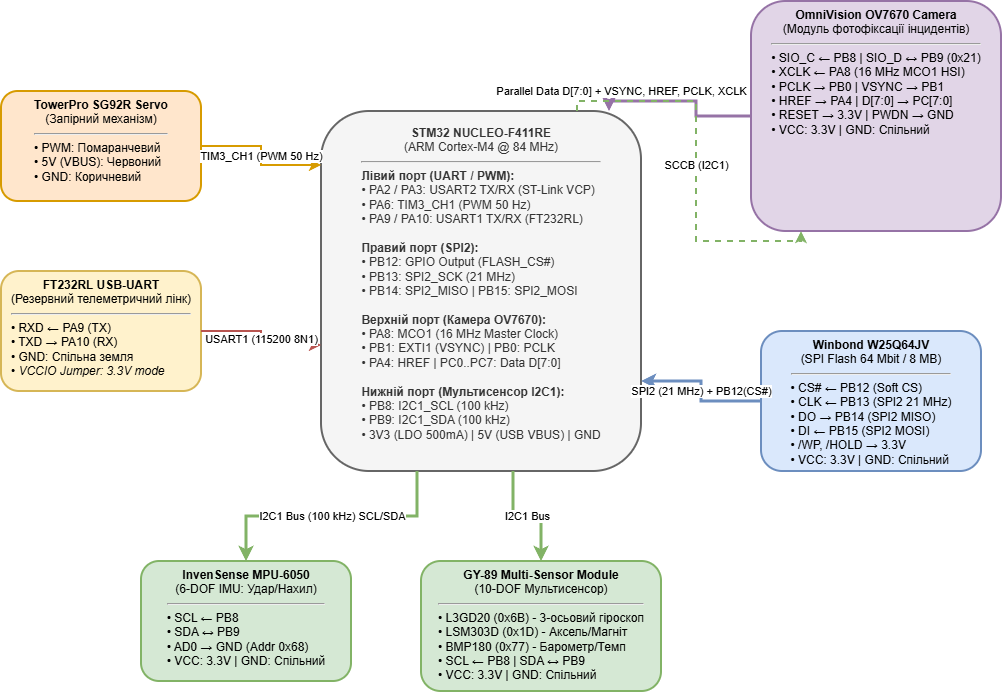
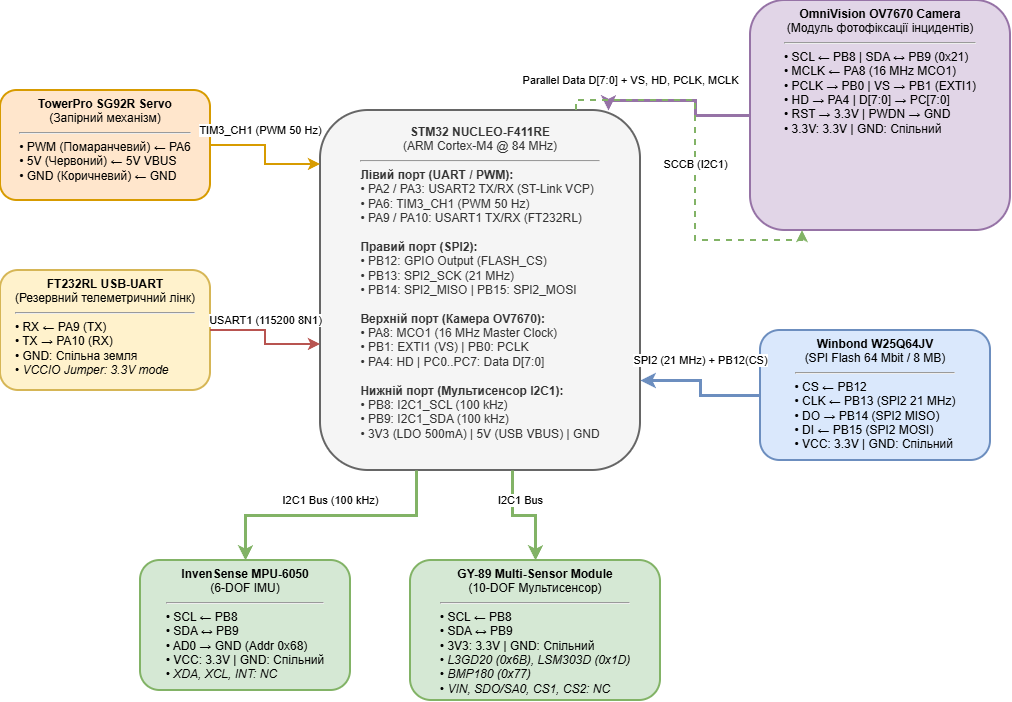
diagram and pinout fixed

Changed region(s): [[0.0, 0.0, 1.0, 1.0]]

diff --git a/docs/pinout.md b/docs/pinout.md
@@ -5,7 +5,9 @@
 
 ---
 
-## 1. Зведена таблиця підключення периферії (Master Pinout Table)
+## 1. Апаратне підключення стенда
+
+### 1.1. Зведена таблиця підключення до мікроконтролера (Master Pinout Table)
 
 | Пін МК | Номер AF | Периферійний блок і сигнал | Роз'єм Nucleo (Morpho / Arduino) | Пристрій / Модуль | Пін пристрою | Рівень напруги (5V tolerant) | Наявність Pull-up / Pull-down | Обґрунтування вибору та джерело в документації |
 | :--- | :--- | :--- | :--- | :--- | :--- | :--- | :--- | :--- |
@@ -13,18 +15,18 @@
 | **PA3** | AF7 | USART2_RX | CN10-37 / D0 | ST-LINK VCP | TXD | 3.3 В (FT) | Немає (Float) | Апаратне підключення до ST-Link VCP через перемичку SB14 *(UM1724, с. 26; DS10314, Table 8; RM0383, Table 1, с. 39)* |
 | **PA5** | - | GPIO_Output | CN10-11 / D13 | Nucleo Onboard | Green LED (LD2) | 3.3 В (FT) | Немає | Бортовий світлодіод індикації статусів системи (Active HIGH) *(UM1724, Section 7.6, с. 24; RM0383, Section 8.3.10, с. 154)* |
 | **PA6** | AF2 | TIM3_CH1 | CN10-13 / D12 | SG92R Servo | PWM (Orange) | 3.3 В логіка (FT) | Внутрішній Pull-down | Апаратний ШІМ 50 Гц для керування кутом засува блокування *(DS10314, Table 8, с. 46; RM0383, Section 13.3.9, с. 333)* |
-| **PA8** | AF0 | MCO1 (XCLK) | CN10-23 / D7 | OV7670 Camera | XCLK | 3.3 В (FT) | Немає (Push-Pull, High Speed) | Генерація опорного такту 16 МГц безпосередньо з HSI без завантаження CPU *(DS10314, Table 8, с. 46; RM0383, Section 6.2.10, с. 100)* |
-| **PA4** | - | GPIO_Input | CN7-32 / A2 | OV7670 Camera | HREF | 3.3 В (STD) | Внутрішній Pull-down | Строб активного рядка відеокадру *(OV7670 DS, Table 1, с. 4; RM0383, Section 8.3.9, с. 153)* |
+| **PA8** | AF0 | MCO1 (MCLK) | CN10-23 / D7 | OV7670 Camera | MCLK | 3.3 В (FT) | Немає (Push-Pull, High Speed) | Генерація опорного такту 16 МГц безпосередньо з HSI без завантаження CPU *(DS10314, Table 8, с. 46; RM0383, Section 6.2.10, с. 100)* |
+| **PA4** | - | GPIO_Input | CN7-32 / A2 | OV7670 Camera | HD | 3.3 В (STD) | Внутрішній Pull-down | Строб активного рядка відеокадру HREF *(OV7670 DS, Table 1, с. 4; RM0383, Section 8.3.9, с. 153)* |
 | **PB0** | - | GPIO_Input | CN7-34 / A3 | OV7670 Camera | PCLK | 3.3 В (FT) | Внутрішній Pull-down | Піксельний строб тактування паралельних даних *(OV7670 DS, Table 1, с. 4; RM0383, Section 8.3.9, с. 153)* |
-| **PB1** | - | GPIO_Input (EXTI1) | CN10-24 | OV7670 Camera | VSYNC | 3.3 В (FT) | Внутрішній Pull-down | Кадровий синхроімпульс для детекції початку кадру по перериванню EXTI1 *(OV7670 DS, Table 1, с. 4; RM0383, Section 10.2.5, с. 208)* |
-| **PB8** | AF4 | I2C1_SCL | CN10-3 / D15 | MPU-6050, GY-89, OV7670 | SCL / SIO_C | 3.3 В (FT) | Зовнішній 4.7 кОм на модулях + Open-Drain | Спільна тактова лінія I2C1 (100 кГц) для мультисенсорної шини *(UM1724, с. 44; DS10314, Table 8, с. 47; RM0383, Section 18.3, с. 471)* |
-| **PB9** | AF4 | I2C1_SDA | CN10-5 / D14 | MPU-6050, GY-89, OV7670 | SDA / SIO_D | 3.3 В (FT) | Зовнішній 4.7 кОм на модулях + Open-Drain | Спільна лінія даних I2C1 та конфігурації камери SCCB *(UM1724, с. 44; DS10314, Table 8, с. 47; RM0383, Section 18.3, с. 471)* |
-| **PB12** | - | GPIO_Output | CN10-16 | W25Q64JV Flash | CS# | 3.3 В (FT) | Програмний Pull-up | Програмне керування вибором кристала SPI Flash *(W25Q64JV DS, Section 4.1, с. 9; RM0383, Section 8.3.10, с. 154)* |
+| **PB1** | - | GPIO_Input (EXTI1) | CN10-24 | OV7670 Camera | VS | 3.3 В (FT) | Внутрішній Pull-down | Кадровий синхроімпульс VSYNC для детекції початку кадру по EXTI1 *(OV7670 DS, Table 1, с. 4; RM0383, Section 10.2.5, с. 208)* |
+| **PB8** | AF4 | I2C1_SCL | CN10-3 / D15 | MPU-6050, GY-89, OV7670 | SCL | 3.3 В (FT) | Зовнішній 4.7 кОм на модулях + Open-Drain | Спільна тактова лінія I2C1 (100 кГц) для мультисенсорної шини та SCCB *(UM1724, с. 44; DS10314, Table 8, с. 47; RM0383, Section 18.3, с. 471)* |
+| **PB9** | AF4 | I2C1_SDA | CN10-5 / D14 | MPU-6050, GY-89, OV7670 | SDA | 3.3 В (FT) | Зовнішній 4.7 кОм на модулях + Open-Drain | Спільна лінія даних I2C1 та конфігурації камери SCCB *(UM1724, с. 44; DS10314, Table 8, с. 47; RM0383, Section 18.3, с. 471)* |
+| **PB12** | - | GPIO_Output | CN10-16 | W25Q64JV Flash | CS | 3.3 В (FT) | Програмний Pull-up | Програмне керування вибором кристала SPI Flash *(W25Q64JV DS, Section 4.1, с. 9; RM0383, Section 8.3.10, с. 154)* |
 | **PB13** | AF5 | SPI2_SCK | CN10-30 | W25Q64JV Flash | CLK | 3.3 В (FT) | Немає (Push-Pull, 21 МГц) | Апаратне тактування швидкісного інтерфейсу SPI2 *(DS10314, Table 8, с. 47; W25Q64JV DS, с. 9; RM0383, Section 20.3.3, с. 564)* |
-| **PB14** | AF5 | SPI2_MISO | CN10-28 | W25Q64JV Flash | DO (IO1) | 3.3 В (FT) | Немає (Float) | Лінія читання даних із Flash-пам'яті *(DS10314, Table 8, с. 47; W25Q64JV DS, с. 9; RM0383, Section 20.3.3, с. 564)* |
-| **PB15** | AF5 | SPI2_MOSI | CN10-26 | W25Q64JV Flash | DI (IO0) | 3.3 В (FT) | Немає (Push-Pull) | Лінія відправки команд та запису сторінок *(DS10314, Table 8, с. 47; W25Q64JV DS, с. 9; RM0383, Section 20.3.3, с. 564)* |
-| **PA9** | AF7 | USART1_TX | CN10-21 / D8 | FT232RL | RXD | 3.3 В (FT) | Немає (Push-Pull) | Резервний апаратний канал швидкісного зливу дампу чорної скриньки *(DS10314, Table 8, с. 46; RM0383, Section 19.3.2, с. 507)* |
-| **PA10** | AF7 | USART1_RX | CN10-33 / D2 | FT232RL | TXD | 3.3 В (FT) | Немає (Float) | Резервний прийом команд конфігурації CLI *(DS10314, Table 8, с. 46; DS_FT232R, с. 8; RM0383, Section 19.3.3, с. 510)* |
+| **PB14** | AF5 | SPI2_MISO | CN10-28 | W25Q64JV Flash | DO | 3.3 В (FT) | Немає (Float) | Лінія читання даних із Flash-пам'яті *(DS10314, Table 8, с. 47; W25Q64JV DS, с. 9; RM0383, Section 20.3.3, с. 564)* |
+| **PB15** | AF5 | SPI2_MOSI | CN10-26 | W25Q64JV Flash | DI | 3.3 В (FT) | Немає (Push-Pull) | Лінія відправки команд та запису сторінок *(DS10314, Table 8, с. 47; W25Q64JV DS, с. 9; RM0383, Section 20.3.3, с. 564)* |
+| **PA9** | AF7 | USART1_TX | CN10-21 / D8 | FT232RL | RX | 3.3 В (FT) | Немає (Push-Pull) | Резервний апаратний канал швидкісного зливу дампу чорної скриньки *(DS10314, Table 8, с. 46; RM0383, Section 19.3.2, с. 507)* |
+| **PA10** | AF7 | USART1_RX | CN10-33 / D2 | FT232RL | TX | 3.3 В (FT) | Немає (Float) | Резервний прийом команд конфігурації CLI *(DS10314, Table 8, с. 46; DS_FT232R, с. 8; RM0383, Section 19.3.3, с. 510)* |
 | **PC0** | - | GPIO_Input | CN7-38 / A5 | OV7670 Camera | D0 | 3.3 В (STD) | Float / Pull-down | Молодший біт паралельної шини пікселів *(OV7670 DS, с. 4; DS10314, Table 8; RM0383, Section 8.4.5, с. 160)* |
 | **PC1** | - | GPIO_Input | CN7-36 / A4 | OV7670 Camera | D1 | 3.3 В (STD) | Float / Pull-down | Біт 1 паралельної шини пікселів *(OV7670 DS, с. 4; DS10314, Table 8; RM0383, Section 8.4.5, с. 160)* |
 | **PC2** | - | GPIO_Input | CN7-35 | OV7670 Camera | D2 | 3.3 В (STD) | Float / Pull-down | Біт 2 паралельної шини пікселів *(OV7670 DS, с. 4; DS10314, Table 8; RM0383, Section 8.4.5, с. 160)* |
@@ -32,8 +34,35 @@
 | **PC4** | - | GPIO_Input | CN10-34 | OV7670 Camera | D4 | 3.3 В (STD) | Float / Pull-down | Біт 4 паралельної шини пікселів *(OV7670 DS, с. 4; DS10314, Table 8; RM0383, Section 8.4.5, с. 160)* |
 | **PC5** | - | GPIO_Input | CN10-6 | OV7670 Camera | D5 | 3.3 В (STD) | Float / Pull-down | Біт 5 паралельної шини пікселів *(OV7670 DS, с. 4; DS10314, Table 8; RM0383, Section 8.4.5, с. 160)* |
 | **PC6** | - | GPIO_Input | CN10-4 | OV7670 Camera | D6 | 3.3 В (FT) | Float / Pull-down | Біт 6 паралельної шини пікселів *(OV7670 DS, с. 4; DS10314, Table 8; RM0383, Section 8.4.5, с. 160)* |
-| **PC7** | - | GPIO_Input | CN10-19 / D9 | OV7670 Camera | D7 | 3.3 В (FT) | Float / Pull-down | Старший біт паралельної шини даних. Вибір порту PC0–PC7 забезпечує атомарне зчитування байта виразом `(GPIOC->IDR & 0xFF)` за 1 такт CPU *(DS10314, Table 8, с. 48; RM0383, Section 8.4.5, с. 160)* |
+| **PC7** | - | GPIO_Input | CN10-19 / D9 | OV7670 Camera | D7 | 3.3 В (FT) | Float / Pull-down | Старший біт шини даних. Вибір порту PC0–PC7 забезпечує атомарне зчитування байта виразом `(GPIOC->IDR & 0xFF)` за 1 такт CPU *(DS10314, Table 8, с. 48; RM0383, Section 8.4.5, с. 160)* |
 | **PC13** | - | GPIO_Input (EXTI13) | CN7-23 | Nucleo Onboard | Blue Button (B1) | 3.3 В (FT) | Зовнішній 100 кОм Pull-up | Апаратна кнопка користувача для ручного тестування тригерів та скидання аварій *(UM1724, Section 7.7, с. 24; RM0383, Section 10.2.5, с. 208)* |
+
+---
+
+### 1.2. Підключення ліній живлення та конфігураційних виводів модулів
+
+| Модуль | Пін на платі модуля | Куди підключається на Nucleo | Рівень напруги | Призначення та конфігурація виводу |
+| :--- | :--- | :--- | :--- | :--- |
+| **OV7670** | `3.3V` | `3V3` (CN6-4 / CN7-16) | 3.3 В | Основне живлення модуля |
+| **OV7670** | `GND` | `GND` (CN6-7 / CN7-20) | 0 В | Спільна земля |
+| **OV7670** | `RST` | `3V3` (CN6-4) | 3.3 В | Апаратне скидання (активний низький; підтягнутий до 3.3 В для нормальної роботи) |
+| **OV7670** | `PWDN` | `GND` (CN6-6) | 0 В | Вимкнення енергозбереження (активний високий; з'єднаний із GND) |
+| **Winbond W25Q64JV** | `VCC` | `3V3` (CN6-4) | 3.3 В | Живлення флеш-пам'яті (робочий діапазон 2.7–3.6 В) |
+| **Winbond W25Q64JV** | `GND` | `GND` (CN6-7) | 0 В | Спільна земля |
+| **Winbond W25Q64JV** | `/WP`, `/HOLD` | Внутрішньо на модулі | 3.3 В | Підтягнуті резисторами до VCC безпосередньо на платі модуля |
+| **InvenSense MPU-6050**| `VCC` | `3V3` (CN6-4) | 3.3 В | Живлення мікросхеми через вбудований LDO |
+| **InvenSense MPU-6050**| `GND` | `GND` (CN6-7) | 0 В | Спільна земля |
+| **InvenSense MPU-6050**| `AD0` | `GND` (CN6-6) | 0 В | Апаратний вибір 7-бітної I2C-адреси `0x68` (при 3.3V адреса була б `0x69`) |
+| **InvenSense MPU-6050**| `XDA`, `XCL`, `INT` | **NC** (не підключено) | - | Допоміжна шина зовнішнього магнітометра та вихід переривання не задіяні |
+| **GY-89 Multi-Sensor** | `3V3` | `3V3` (CN6-4) | 3.3 В | Живлення сенсорів L3GD20, LSM303D та BMP180 на платі модуля |
+| **GY-89 Multi-Sensor** | `GND` | `GND` (CN6-7) | 0 В | Спільна земля |
+| **GY-89 Multi-Sensor** | `VIN` | **NC** (не підключено) | - | Вхід 5V стабілізатора залишено вільним, живлення подається напряму на пін `3V3` |
+| **GY-89 Multi-Sensor** | `SDO/SA0` | **NC** (не підключено) | 3.3 В | Вбудований резистор підтягує лінію до 3.3 В, обираючи адреси `0x6B` (L3G) та `0x1D` (LSM) |
+| **GY-89 Multi-Sensor** | `CS1`, `CS2` | **NC** (не підключено) | 3.3 В | Вбудовані pull-up резистори утримують чіпи в режимі I2C (замість SPI) |
+| **TowerPro SG92R** | Червоний (`5V`) | **`5V` (VBUS, CN6-5)** | **5.0 В** | Силове живлення сервоприводу. Підключення до 3.3 В заборонено через просідання напруги |
+| **TowerPro SG92R** | Коричневий (`GND`)| `GND` (CN6-7) | 0 В | Спільна силова та логічна земля |
+| **FT232RL USB-UART** | `GND` | `GND` (CN6-7) | 0 В | Спільна земля сигнального інтерфейсу |
+| **FT232RL USB-UART** | Джампер `VCCIO` | Положення **3.3V** | 3.3 В | Фіксує напругу логічних рівнів TX/RX на рівні 3.3 В для захисту входів MCU |
 
 ---
 
@@ -54,44 +83,44 @@
 
 * **Первинне тактування:** Внутрішній високостабільний RC-генератор HSI = 16 МГц *(RM0383, Section 6.2.2, с. 97)*.
 * **Головний помножувач PLL (RM0383, Section 6.2.3, с. 97; Section 6.3.2, с. 105):**
-  * Вхідна частота VCO: $f_{\text{VCO,IN}} = \frac{f_{\text{HSI}}}{\text{PLLM}} = \frac{16\text{ МГц}}{16} = 1.0\text{ МГц}$
-  * Вихідна частота VCO: $f_{\text{VCO,OUT}} = f_{\text{VCO,IN}} \times \text{PLLN} = 1.0\text{ МГц} \times 336 = 336\text{ МГц}$
-  * Системна частота SYSCLK: $f_{\text{SYSCLK}} = \frac{f_{\text{VCO,OUT}}}{\text{PLLP}} = \frac{336\text{ МГц}}{4} = \mathbf{84\text{ МГц}}$
-* **Шина AHB (HCLK):** Prescaler = 1 $\rightarrow$ **84 МГц** (тактування ядра Cortex-M4 і портів GPIO, RM0383, с. 109).
+  * Вхідна частота VCO: f_VCO_IN = f_HSI / PLLM = 16 МГц / 16 = 1.0 МГц
+  * Вихідна частота VCO: f_VCO_OUT = f_VCO_IN * PLLN = 1.0 МГц * 336 = 336 МГц
+  * Системна частота SYSCLK: f_SYSCLK = f_VCO_OUT / PLLP = 336 МГц / 4 = **84 МГц**
+* **Шина AHB (HCLK):** Prescaler = 1 -> **84 МГц** (тактування ядра Cortex-M4 і портів GPIO, RM0383, с. 109).
 * **Шина APB1 (PCLK1, Low Speed Peripheral):**
-  * Prescaler = 2 $\rightarrow$ $f_{\text{APB1}} = \frac{84}{2} = 42\text{ МГц}$ (максимум для STM32F411 — 50 МГц, RM0383, с. 108).
-  * Тактування таймерів APB1 (TIM3): оскільки подільник APB1 $\neq 1$, частота множиться на 2 $\rightarrow$ $f_{\text{TIMCLK}} = 42\text{ МГц} \times 2 = 84\text{ МГц}$ *(RM0383, Section 6.2, с. 95; Section 6.3.21, с. 136)*.
+  * Prescaler = 2 -> f_APB1 = 84 / 2 = 42 МГц (максимум для STM32F411 становить 50 МГц, RM0383, с. 108).
+  * Тактування таймерів APB1 (TIM3): оскільки подільник APB1 != 1, частота подвоюється -> f_TIMCLK = 42 МГц * 2 = 84 МГц *(RM0383, Section 6.2, с. 95; Section 6.3.21, с. 136)*.
 * **Шина APB2 (PCLK2, High Speed Peripheral):**
-  * Prescaler = 1 $\rightarrow$ $f_{\text{APB2}} = 84\text{ МГц}$ (тактування USART1, RM0383, с. 108).
+  * Prescaler = 1 -> f_APB2 = 84 МГц (тактування USART1, RM0383, с. 108).
 
 ### Розрахунок інтерфейсів:
 1. **Шина I2C1 (Standard Mode 100 кГц, RM0383, Section 18.6.8, с. 499):**
-   * Період шини: $T = 10\text{ мкс}$, півперіод $T_{\text{high}} = T_{\text{low}} = 5\text{ мкс}$.
+   * Період шини: T = 10 мкс, півперіод T_high = T_low = 5 мкс.
    * Значення регістра `CCR`:
-     $$\text{CCR} = \frac{T_{\text{high}}}{T_{\text{PCLK1}}} = \frac{5\text{ мкс}}{\frac{1}{42\text{ МГц}}} = 5\text{ мкс} \times 42\text{ МГц} = 210 \quad (\text{0x00D2})$$
+     CCR = T_high / T_PCLK1 = 5 мкс / (1 / 42 МГц) = 5 мкс * 42 МГц = 210 (0x00D2)
    * Значення регістра `TRISE` (максимальний час наростання 1000 нс, RM0383, Section 18.6.9, с. 500):
-     $$\text{TRISE} = (1000\text{ нс} \times 42\text{ МГц}) + 1 = 42 + 1 = 43$$
+     TRISE = (1000 нс * 42 МГц) + 1 = 42 + 1 = 43
 2. **Шина SPI2 (Winbond W25Q64JV, RM0383, Section 20.5.1, с. 598):**
    * Джерело тактування: APB1 (42 МГц).
-   * Подільник `SPI_BAUDRATEPRESCALER_2` (біти BR[2:0] = 000): $f_{\text{SCK}} = \frac{42\text{ МГц}}{2} = 21\text{ МГц}$ (відповідає ліміту W25Q64 до 133 МГц і забезпечує надійність сигналу на макетній платі).
+   * Подільник `SPI_BAUDRATEPRESCALER_2` (біти BR[2:0] = 000): f_SCK = 42 МГц / 2 = 21 МГц (відповідає ліміту W25Q64 до 133 МГц і гарантує стабільність сигналу на макетній платі).
 3. **ШІМ-таймер сервоприводу TIM3 CH1 (SG92R, RM0383, Section 13.4.11–12, с. 364):**
    * Опорна частота таймера: 84 МГц.
    * Подільник переддільника `PSC = 83`:
-     $$f_{\text{CNT}} = \frac{84\text{ МГц}}{83 + 1} = 1.0\text{ МГц} \quad (\text{крок лічильника } 1.0\text{ мкс})$$
+     f_CNT = 84 МГц / (83 + 1) = 1.0 МГц (крок лічильника 1.0 мкс)
    * Період переповнення `ARR = 19999`:
-     $$T_{\text{PWM}} = (19999 + 1) \times 1.0\text{ мкс} = 20000\text{ мкс} = 20.0\text{ мс} \quad (50\text{ Гц})$$
+     T_PWM = (19999 + 1) * 1.0 мкс = 20000 мкс = 20.0 мс (50 Гц)
    * Керування кутом (тривалість імпульсу CCR1):
-     * `CCR1 = 1000` (1.0 мс $\rightarrow$ 0°, засув розблоковано)
-     * `CCR1 = 1500` (1.5 мс $\rightarrow$ 90°, проміжний стан)
-     * `CCR1 = 2000` (2.0 мс $\rightarrow$ 180°, засув заблоковано / опломбовано)
-4. **Тактування камери XCLK (PA8 MCO1, RM0383, Section 6.2.10, с. 100):**
-   * Вихідний сигнал MCO1 налаштовано напряму від джерела HSI (Prescaler = 1, біти MCO1[1:0]=00, MCO1PRE[2:0]=000) $\rightarrow$ стабільна меандрова частота **16 МГц**, що строго входить у робочий діапазон камери OV7670 (10–48 МГц).
+     * `CCR1 = 1000` (1.0 мс -> 0°, засув розблоковано)
+     * `CCR1 = 1500` (1.5 мс -> 90°, проміжний стан)
+     * `CCR1 = 2000` (2.0 мс -> 180°, засув заблоковано / опломбовано)
+4. **Тактування камери MCLK (PA8 MCO1, RM0383, Section 6.2.10, с. 100):**
+   * Вихідний сигнал MCO1 налаштовано напряму від джерела HSI (Prescaler = 1, біти MCO1[1:0]=00, MCO1PRE[2:0]=000) -> стабільна меандрова частота **16 МГц**, що входить у допустимий робочий діапазон сенсора OV7670 (10–48 МГц).
 
 ---
 
 ## 4. Бюджет струму та живлення (Power Budget)
 
-* **Допустиме навантаження лінії 3.3 В плати Nucleo:** Вбудований лінійний стабілізатор LDO ST1L05PU33R забезпечує максимальний вихідний струм до **500 мА** *(UM1724, Section 7.5.4, с. 23)*.
+* **Допустиме навантаження лінії 3.3 В плати Nucleo:** Вбудований лінійний стабілізатор LDO LD39050PU33R забезпечує максимальний вихідний струм до **500 мА** *(UM1724, Section 7.5.4, с. 23)*.
 * **Розрахунок споживання лінії 3.3 В у найгіршому випадку (Worst-Case Peak):**
   * MCU STM32F411RE (@84 МГц, активна периферія): 25.0 мА *(DS10314, с. 72)*
   * MPU-6050 (Active, гіроскоп + акселерометр): 3.9 мА *(PS-MPU-6000A, с. 14)*
@@ -99,38 +128,41 @@
   * W25Q64JV Flash (режим циклічного стирання блоку Sector Erase): 25.0 мА *(W25Q64JV DS, с. 61)*
   * OV7670 Camera (активне захоплення пікселів): 18.0 мА *(OV7670 DS, с. 5)*
   * FT232RL (активна передача даних по UART): 15.0 мА *(DS_FT232R, с. 15)*
-  * **Сумарний піковий струм на лінії 3.3 В:** $I_{\text{total}} = 25.0 + 3.9 + 6.43 + 25.0 + 18.0 + 15.0 = 93.33\text{ мА}$
-  * **Коефіцієнт запасу:** $\frac{500\text{ мА}}{93.33\text{ мА}} \approx 5.35$ (лінія навантажена лише на 18.6% від номіналу).
+  * **Сумарний піковий струм на лінії 3.3 В:**
+    I_total = 25.0 + 3.9 + 6.43 + 25.0 + 18.0 + 15.0 = 93.33 мА
+  * **Коефіцієнт запасу:**
+    500 мА / 93.33 мА ≈ 5.35
+    Лінія завантажена лише на 18.6% від номіналу стабілізатора.
 
 * **Живлення силового навантаження (Сервопривід SG92R):**
-  * Струм холостого ходу сервоприводу: 100–250 мА, піковий струм рушання з місця / блокування ротора: **до 500 мА** *(SG92R DS, с. 1)*.
-  * **Рішення:** Підключення сервоприводу до лінії 3.3 В **суворо заборонено**, оскільки імпульсне просідання викликало б перезавантаження MCU через вбудований детектор Brown-Out Reset (BOR, RM0383, Section 5.2.2, с. 74). Сервопривід живиться безпосередньо від піна **5V (USB VBUS)**, а земля живлення є спільною з GND мікроконтролера.
+  * Струм холостого ходу сервоприводу становить 100–250 мА, а пусковий струм і струм блокування ротора сягають **до 500 мА** *(SG92R DS, с. 1)*.
+  * **Схемотехнічне рішення:** Підключення сервоприводу до лінії 3.3 В **суворо заборонено**, оскільки імпульсне просідання напруги призведе до перезавантаження MCU через вбудований детектор Brown-Out Reset (BOR, RM0383, Section 5.2.2, с. 74). Сервопривід живиться безпосередньо від піна **5V (USB VBUS)**, а лінія землі з'єднана зі спільною точкою GND схеми.
 
 ---
 
 ## 5. Розділ «Відхилені варіанти» (Rejected Design Alternatives)
 
-Відповідно до вимог п. 4.1 методичних вказівок, наведено детальний інженерний аналіз альтернативних схемотехнічних рішень, які розглядалися на етапі проектування та були відхилені з конкретних технічних причин:
+Відповідно до вимог п. 4.1 методичних вказівок, наведено аналіз альтернативних схемотехнічних рішень, які розглядалися на етапі проектування та були відхилені:
 
 ### Варіант №1: Використання пінів PB6 (SCL) та PB7 (SDA) для шини I2C1
-* *Суть варіанта:* Використання первинної пари виводів I2C1, які CubeMX призначає за замовчуванням.
-* *Причина відхилення:* 
-  1. На платах Nucleo-64 виводи PB8 та PB9 безпосередньо підведені до стандартних конекторів Arduino D15/D14, мають чітке маркування та розпаяні поруч із шинами живлення.
-  2. Вивід PB6 за замовчуванням з'єднаний із піном Arduino D10, який часто використовується іншими платами розширення як апаратний CS SPI. 
-  3. Перепризначення I2C1 на PB8/PB9 звільнило нижній порт B і запобігло геометричному перехрещенню шлейфів над платою.
-
-### Варіант №2: Організація паралельної шини камери D[7:0] на випадкових вільних пінах портів A і B
-* *Суть варіанта:* Підключення ліній D0–D7 до розрізнених пінів (наприклад, PA0, PA1, PB4, PB5, PC2 тощо), доступних на роз'ємах Morpho.
+* *Суть варіанта:* Використання первинної пари виводів I2C1, які призначаються конфігуратором STM32CubeMX за замовчуванням.
 * *Причина відхилення:*
-  1. Оскільки MCU STM32F411RE не має апаратного периферійного блоку DCMI, зчитування кадру реалізується програмно на високій частоті такту PCLK (~8–16 МГц).
-  2. При розрізнених пінах для формування одного байта пікселя процесору довелося б зчитувати кілька регістрів `IDR` (RM0383, с. 160), виконувати операції побітового зсуву (`>>`, `<<`) та накладати логічне `OR`. Це займало б не менше 15–20 машинних тактів на кожен байт, що призвело б до 100% завантаження ядра і пропуску пікселів.
-  3. Виділення неперервної групи **PC0–PC7** дозволяє виконати читання всього байта за **1 машинний такт**: `uint8_t pixel_byte = (uint8_t)(GPIOC->IDR & 0xFF)`.
+  1. На платах Nucleo-64 виводи PB8 та PB9 підведені до стандартних конекторів Arduino D15/D14, мають чітке маркування на платі та розташовані поруч із шинами живлення.
+  2. Вивід PB6 за замовчуванням з'єднаний із піном Arduino D10, який часто використовується іншими модулями як лінія Chip Select для SPI.
+  3. Перепризначення I2C1 на PB8/PB9 розвантажило нижній ряд пінів порту B і запобігло паразитному перехрещенню сигнальних шлейфів над мікроконтролером.
 
-### Варіант №3: Генерація тактування камери XCLK через канал ШІМ таймера TIM1 (PA8) замість MCO1
-* *Суть варіанта:* Налаштування піна PA8 як каналу TIM1_CH1 у режимі PWM із заповненням 50% для формування частоти 16 МГц.
+### Варіант №2: Організація паралельної шини камери D[7:0] на розрізнених пінах портів A і B
+* *Суть варіанта:* Підключення ліній даних камери D0–D7 до довільних вільних контактів (наприклад, PA0, PA1, PB4, PB5 тощо).
 * *Причина відхилення:*
-  1. Робота розширеного таймера TIM1 на такій частоті вимагає додаткових обчислень дільників і блокує ресурси таймера, які можуть знадобитися для точних захватів подій.
-  2. Використання спеціалізованого апаратного виводу **MCO1 (Master Clock Output 1, AF0, RM0383, Section 6.2.10, с. 100)** транслює частоту внутрішнього генератора HSI напряму на пін PA8 без залучення блоків таймерів і без споживання додаткової динамічної потужності.
+  1. Оскільки MCU STM32F411RE не має апаратного блоку DCMI, зчитування кадру реалізується програмно на частоті такту PCLK (~8–16 МГц).
+  2. При використанні розрізнених пінів для збирання одного 8-бітного значення процесору довелося б зчитувати кілька регістрів `IDR`, виконувати побітові зсуви (`>>`, `<<`) та операції логічного `OR`. Це вимагає 15–20 машинних тактів на кожен байт і призводить до 100% завантаження ядра процесора та втрати пікселів.
+  3. Виділення неперервної групи пінів **PC0–PC7** дозволяє виконати атомарне зчитування всього байта за **1 машинний такт**: `uint8_t pixel_byte = (uint8_t)(GPIOC->IDR & 0xFF)`.
+
+### Варіант №3: Генерація тактування камери через канал ШІМ таймера TIM1 (PA8) замість MCO1
+* *Суть варіанта:* Налаштування піна PA8 як каналу TIM1_CH1 у режимі PWM із коефіцієнтом заповнення 50% для генерації частоти 16 МГц.
+* *Причина відхилення:*
+  1. Робота розширеного таймера TIM1 на такій частоті блокує ресурси таймера, які можуть знадобитися для точного захоплення зовнішніх подій.
+  2. Використання виділеного апаратного виводу **MCO1 (Master Clock Output 1, AF0, RM0383, Section 6.2.10, с. 100)** транслює частоту внутрішнього генератора HSI безпосередньо на вивід PA8 без залучення таймерів і без споживання додаткової динамічної потужності.
 
 ---
 
